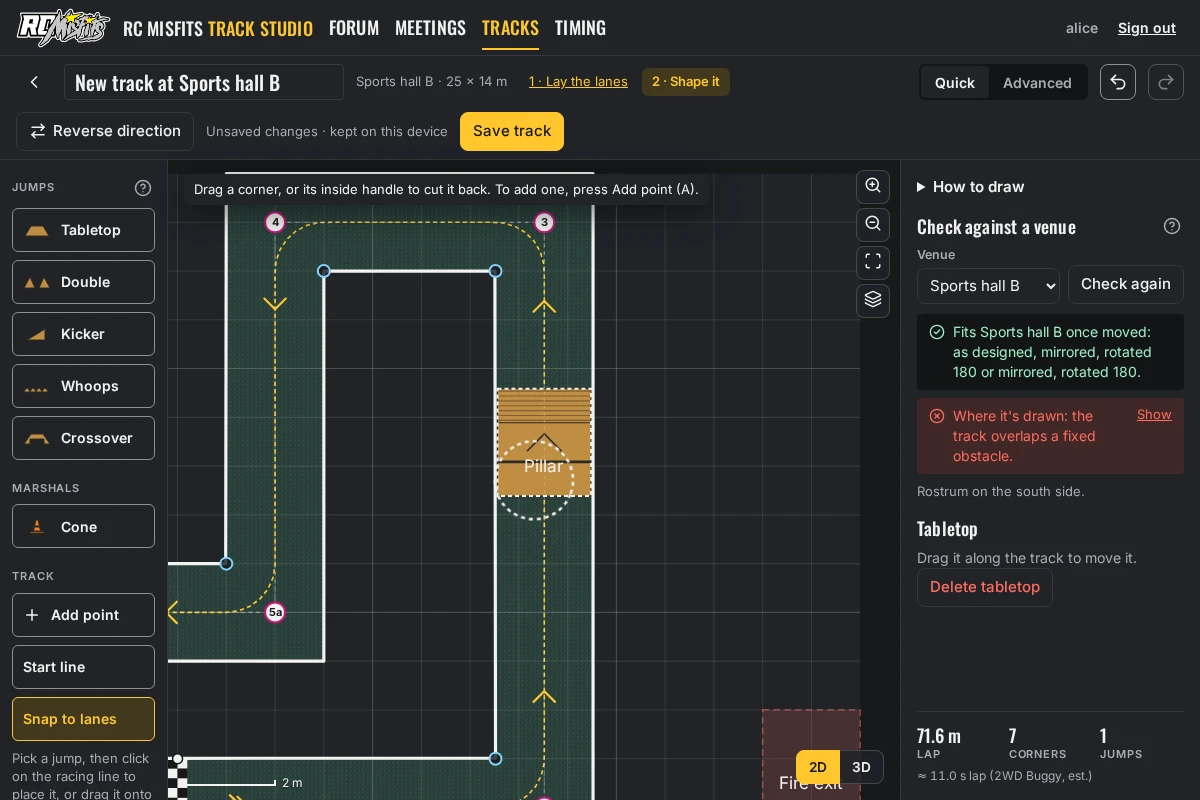
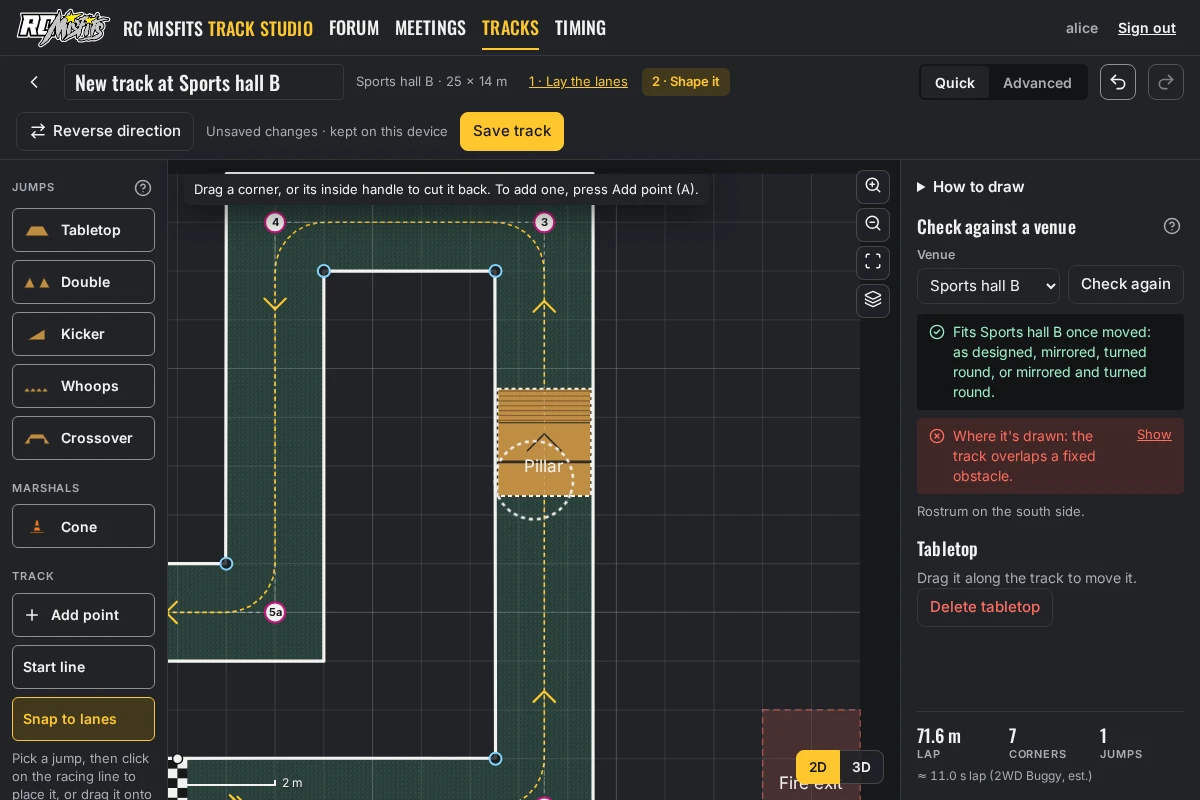
Fit lists name each orientation so they read cleanly (#179) (#192)
* Tests: orientations are shown by name and lists of them read cleanly (#179)

* Name each fit orientation and list them cleanly everywhere they're shown (#179)

* Typecheck: the adapted-layout test's derivedFrom has an author (#179)

* Guide: retake the venue check and Fit to a venue shots with the orientation names (#179); PR screenshots

* Adapt: the wrong-orientation error names the options the same way (#179)

* Remove the PR screenshots (#179)

* Guide: retake the venue check shot on the merged code, with #182's corner numbers and the orientation names (#179)

---------

Changed region(s): [[0.74, 0.4375, 0.9867, 0.7812]]

diff --git a/apps/web/test/ui.test.tsx b/apps/web/test/ui.test.tsx
@@ -167,6 +167,14 @@ describe("track card", () => {
     expect(text(h)).toContain("as designed 2 × 1 m spare");
     expect(h).toContain('src="/f/1.png"');
   });
+
+  it("names each orientation the same way as everywhere else, linking by its label (#179)", () => {
+    const fit = { revision: 4, results: [{ orientation: "mirrored, rotated 180", spare: [2, 1], thumbUrl: "/f/3.png" }] };
+    const h = html(<TrackCard track={summary({ fit } as unknown as Partial<TrackSummary>)} fitVenueId="hall" />);
+    expect(h).toContain('href="/t/winter-3?fit=hall&amp;o=mirrored%2C%20rotated%20180"');
+    expect(text(h)).toContain("mirrored and turned round 2 × 1 m spare");
+    expect(text(h)).not.toContain("rotated");
+  });
 });
 
 describe("library results", () => {
@@ -726,6 +734,12 @@ describe("track page", () => {
     expect(text(h)).toContain("Based on Club A by yeti (revision 2)");
   });
 
+  it("an adaptation names its orientation the same way as the fit lists (#179)", () => {
+    const d = { ...doc, info: { ...doc.info, derivedFrom: { id: "club-a", revision: 2, orientation: "mirrored, rotated 180" } } };
+    const h = page(can({ edit: true }), { status: "draft", derivedFrom: { id: "club-a", name: "Club A", author: null } }, d);
+    expect(text(h)).toContain("Adapted from Club A (revision 2, mirrored and turned round)");
+  });
+
   it("an organiser approves; with errors, Submit and Approve are disabled and the reason is shown beside them", () => {
     const h = page(can({ approve: true, submit: true }), { errors: 2 });
     expect(h).toMatch(/class="ts-btn ts-btn--primary"[^>]*disabled=""[^>]*>Approve revision 4</);
@@ -936,6 +950,16 @@ describe("fit results", async () => {
     expect(t).toContain("as designed 1 × 2 m spare");
     expect(t).toMatch(/Make a copy for|Log in to make a copy/);
   });
+
+  it("names the orientations (#179), keeping the label as the value sent to adapt", () => {
+    setup({ data: { results: [{ orientation: "rotated 180", rotation: 180, mirror: false, shift: [0, 0], spare: [1, 2], thumbUrl: "" }, { orientation: "mirrored, rotated 90", rotation: 90, mirror: true, shift: [0, 0], spare: [1, 2], thumbUrl: "" }] }, loading: false });
+    const h = panel();
+    expect(text(h)).toContain("turned round 1 × 2 m spare");
+    expect(text(h)).toContain("mirrored and turned a quarter left 1 × 2 m spare");
+    expect(h).toContain('value="mirrored, rotated 90"');
+    expect(text(h)).not.toContain("rotated");
+  });
+
   it("#190: the preview names the venue's surface, the forum's for a linked template", () => {
     setup({ data: { results: [{ orientation: "as designed", rotation: 0, mirror: false, shift: [0, 0], spare: [1, 2], thumbUrl: "" }] }, loading: false });
     const linked = { ...venue, surface: "carpet", info: { ...venue.info, venue: { id: 12, name: "Niagara centre", trackId: 31 } } };

diff --git a/apps/web/src/designer/VenueCheck.tsx b/apps/web/src/designer/VenueCheck.tsx
@@ -2,7 +2,7 @@
 // the design as it stands against a venue template, in the browser: where it is drawn (obstacles hit, area left) and
 // in which orientations it fits. Nothing of the venue goes into the design.
 import { HelpLink } from "../help/HelpLink.js";
-import { bakeBuilt, fits, venueCheck, type Check, type RcTrack, type RcVenue, type VenueCheck } from "@track-studio/engine";
+import { bakeBuilt, fits, orientationList, venueCheck, type Check, type RcTrack, type RcVenue, type VenueCheck } from "@track-studio/engine";
 import { CircleAlert, CircleCheck, CircleX } from "lucide-react";
 import { useEffect, useId, useState } from "react";
 import { api, type VenueSummary } from "../lib/api.js";
@@ -24,15 +24,14 @@ export function checkAgainstVenue(design: RcTrack["design"], venue: RcVenue): Ve
   return { venue: { id: venue.id, name: venue.info.name }, fits: fits(track, venue).map((f) => f.orientation), asDrawn };
 }
 
-/** One line on whether it fits: "Fits Sports hall B where it's drawn.", "Fits Club hall once moved: as designed or mirrored." … */
+/** One line on whether it fits: "Fits Sports hall B where it's drawn.", "Fits Club hall once moved: as designed, mirrored, or turned round." … */
 export function fitSummary(r: VenueCheckResult): string {
   if (!r.fits.length) return `Doesn't fit ${r.venue.name} in any orientation.`;
   // only errors (area, obstacles) mean moving it; a warning (the timing loop, #173) is listed below
   const misplaced = r.asDrawn.checks.some((c) => c.level === "error");
   if (r.fits.includes("as designed") && !misplaced) return `Fits ${r.venue.name} where it's drawn.`;
-  const list = r.fits.length > 2 ? `${r.fits.slice(0, -1).join(", ")} or ${r.fits[r.fits.length - 1]}` : r.fits.join(" or ");
   // fits() slides the track to the best place: when it doesn't fit where it's drawn, say it has to move
-  return `Fits ${r.venue.name}${misplaced ? " once moved" : ""}: ${list}.`;
+  return `Fits ${r.venue.name}${misplaced ? " once moved" : ""}: ${orientationList(r.fits)}.`;
 }
 
 export function VenueCheckPanel({ design, drawnFor, onShow }: { design: RcTrack["design"]; drawnFor?: { venueTemplate: string }; onShow: (x: number, z: number) => void }) {

diff --git a/packages/engine/test/orientation-names.test.ts b/packages/engine/test/orientation-names.test.ts
@@ -1,0 +1,49 @@
+// #179: orientations are shown by name, and a list of them reads cleanly (the commas in "mirrored, rotated 180" ran
+// into the commas between list items). The stored labels (ORIENTS, derivedFrom.orientation) don't change.
+import { describe, expect, it } from "vitest";
+import { ORIENTS, orientationList, orientationName } from "../src/index.js";
+
+describe("orientationName", () => {
+  it("names every orientation fits() reports", () => {
+    expect(ORIENTS.map(([label]) => orientationName(label))).toEqual([
+      "as designed",
+      "mirrored",
+      "turned round",
+      "mirrored and turned round",
+      "turned a quarter left",
+      "turned a quarter right",
+      "mirrored and turned a quarter left",
+      "mirrored and turned a quarter right",
+    ]);
+  });
+
+  it("no name has a comma in it, and every name is different", () => {
+    const names = ORIENTS.map(([label]) => orientationName(label));
+    for (const n of names) expect(n).not.toContain(",");
+    expect(new Set(names).size).toBe(names.length);
+  });
+
+  it("shows a label it doesn't know as it is", () => {
+    expect(orientationName("sideways")).toBe("sideways");
+  });
+});
+
+describe("orientationList", () => {
+  it("one orientation", () => {
+    expect(orientationList(["rotated 180"])).toBe("turned round");
+  });
+  it("two orientations", () => {
+    expect(orientationList(["as designed", "mirrored, rotated 180"])).toBe("as designed or mirrored and turned round");
+  });
+  it("three orientations", () => {
+    expect(orientationList(["as designed", "mirrored", "rotated 180"])).toBe("as designed, mirrored, or turned round");
+  });
+  it("four orientations", () => {
+    expect(orientationList(["as designed", "mirrored", "rotated 180", "mirrored, rotated 180"])).toBe(
+      "as designed, mirrored, turned round, or mirrored and turned round",
+    );
+  });
+  it("none", () => {
+    expect(orientationList([])).toBe("");
+  });
+});

diff --git a/apps/web/src/components/FitPanel.tsx b/apps/web/src/components/FitPanel.tsx
@@ -1,6 +1,6 @@
 // "Fit to a venue": pick a venue, see every orientation the track fits in, preview it in the hall, make a copy.
 import { HelpLink } from "../help/HelpLink.js";
-import { timingLoopCheck, type Built, type RcVenue } from "@track-studio/engine";
+import { orientationName, timingLoopCheck, type Built, type RcVenue } from "@track-studio/engine";
 import { useEffect, useMemo, useState } from "react";
 import { useNavigate } from "react-router-dom";
 import { post, type FitAnswer, type TrackResponse, type VenueSummary } from "../lib/api.js";
@@ -119,7 +119,7 @@ export function FitPanel({ trackId, built, initialVenue, initialOrientation }: {
             {results.map((r) => (
               <label key={r.orientation} className="ts-fit-chip">
                 <input type="radio" name="orientation" value={r.orientation} checked={r === chosen} onChange={() => setOrientation(r.orientation)} />
-                <span>{r.orientation}</span>
+                <span>{orientationName(r.orientation)}</span>
                 <small>{fmt.spare(r)}</small>
               </label>
             ))}
@@ -132,7 +132,7 @@ export function FitPanel({ trackId, built, initialVenue, initialOrientation }: {
               built={placed}
               rostrum={{ ...xz(rostrumPos(v.area, v.rostrum?.side, v.rostrum?.offset)), side: v.rostrum?.side ?? "south" }}
               layers={{ lanes: true, racingLine: true, dividers: true, features: true, start: true, checks: false, obstacles: true, grid: true, rostrum: true, marshals: true }}
-              label={`${chosen.orientation} in ${v.info.name}`}
+              label={`${orientationName(chosen.orientation)} in ${v.info.name}`}
               className="ts-plan-well fit-plan"
             />
           )}

diff --git a/apps/server/src/store.ts b/apps/server/src/store.ts
@@ -6,6 +6,8 @@ import {
   drawingArea,
   fits,
   ORIENTS,
+  orientationList,
+  orientationName,
   trackVenueRef,
   upgradeTrack,
   validateTrack,
@@ -783,12 +785,12 @@ export function adaptTrack(db: DB, user: User, id: string, venueId: string, orie
   const answer = fitTrack(db, row, venueId, rev);
   if (!answer.results.length) throw new HttpError(422, "does-not-fit", "This track doesn't fit that venue in any orientation");
   const fit = orientation ? answer.results.find((r) => r.orientation === orientation) : answer.results[0];
-  if (!fit) throw badRequest("bad-orientation", `It doesn't fit as "${orientation}"; options: ${answer.results.map((r) => r.orientation).join(", ")}`);
+  if (!fit) throw badRequest("bad-orientation", `It doesn't fit ${orientationName(orientation ?? "")}. It fits ${orientationList(answer.results.map((r) => r.orientation))}.`);
   const { thumbUrl: _t, ...plainFit } = fit;
   const adapted = adapt(getTrackDoc(db, row, rev), opts.venue ?? getVenueDoc(db, venueId), plainFit);
   if (opts.dropSurface) delete adapted.info.surface;
   const t = now();
   adapted.info = { ...adapted.info, author: user.username, created: t, modified: t, status: "draft" };
-  const saved = saveRevision(db, user, adapted, { status: "draft", note: `Adapted from ${row.d_name} r${rev} (${fit.orientation})` });
+  const saved = saveRevision(db, user, adapted, { status: "draft", note: `Adapted from ${row.d_name} r${rev} (${orientationName(fit.orientation)})` });
   return { ...trackResult(db, saved.id, user), fit: plainFit };
 }

diff --git a/apps/server/test/tracks.test.ts b/apps/server/test/tracks.test.ts
@@ -521,10 +521,15 @@ describe("fit + adapt", () => {
     // obstacles or its rostrum (1.7)
     expect(doc.design).toEqual(withoutCones(referenceJson<RcTrack>("examples/freeform-at-sports-hall-b.rctrack.json")).design);
     expect(doc.info.drawnFor).toEqual({ venueTemplate: "venue-2", name: "Sports hall B" });
+    // the revision note names the orientation as the fit lists do (#179); the stored label stays "rotated 180"
+    const revs = (await req(app, "GET", `/api/tracks/${track.id}/revisions`, alice)).json().revisions;
+    expect(revs.map((r: { note: string }) => r.note)).toEqual(["Adapted from Freeform example r1 (turned round)"]);
     expect(JSON.stringify(doc)).not.toMatch(/"obstacles"|"rostrum"|"basedOn"|Pillar/);
     expect((await req(app, "POST", `/api/tracks/${CLUB_A}/adapt/venue-3`, alice)).statusCode).toBe(422);
     const bad = await req(app, "POST", `/api/tracks/${CLUB_A}/adapt/venue-1`, alice, { orientation: "rotated 90" });
     expect(bad.statusCode).toBe(400);
+    // the options are named as the fit lists name them (#179)
+    expect(bad.json().message).toBe("It doesn't fit turned a quarter left. It fits as designed, mirrored, turned round, or mirrored and turned round.");
     const chosen = await req(app, "POST", `/api/tracks/${CLUB_A}/adapt/venue-1`, alice, { orientation: "mirrored" });
     expect(chosen.json().fit.orientation).toBe("mirrored");
   });

diff --git a/packages/engine/src/fit.ts b/packages/engine/src/fit.ts
@@ -16,6 +16,30 @@ export const ORIENTS: [string, number, boolean][] = [
   ["mirrored, rotated 270", 270, true],
 ];
 
+/** What people read for each ORIENTS label (#179). Display only: the labels stay the stored and API values. */
+const ORIENT_NAMES: Record<string, string> = {
+  "as designed": "as designed",
+  mirrored: "mirrored",
+  "rotated 180": "turned round",
+  "mirrored, rotated 180": "mirrored and turned round",
+  "rotated 90": "turned a quarter left",
+  "rotated 270": "turned a quarter right",
+  "mirrored, rotated 90": "mirrored and turned a quarter left",
+  "mirrored, rotated 270": "mirrored and turned a quarter right",
+};
+
+/** The name shown for a fit orientation label ("mirrored, rotated 180" -> "mirrored and turned round"); an unknown label as it is. */
+export function orientationName(label: string): string {
+  return ORIENT_NAMES[label] ?? label;
+}
+
+/** Orientation labels as one phrase: "a", "a or b", "a, b, or c". */
+export function orientationList(labels: string[]): string {
+  const names = labels.map(orientationName);
+  if (names.length <= 2) return names.join(" or ");
+  return `${names.slice(0, -1).join(", ")}, or ${names[names.length - 1]}`;
+}
+
 /** Mirror (x -> -x) then rotate CCW by `rot` degrees. */
 export function transformPt(x: number, z: number, rot: number, mirror: boolean): [number, number] {
   if (mirror) x = -x;

diff --git a/apps/web/src/pages/TrackPage.tsx b/apps/web/src/pages/TrackPage.tsx
@@ -1,4 +1,4 @@
-import { drawingArea, rctrackFileName, type Point2, type RcTrack, type RcVenue, type Side } from "@track-studio/engine";
+import { drawingArea, orientationName, rctrackFileName, type Point2, type RcTrack, type RcVenue, type Side } from "@track-studio/engine";
 import { ArrowLeft, Download, Lock } from "lucide-react";
 import { lazy, Suspense, useCallback, useMemo, useState } from "react";
 import { Link, useNavigate, useParams, useSearchParams } from "react-router-dom";
@@ -302,7 +302,7 @@ export function TrackPage() {
               {doc.info.derivedFrom.orientation ? "Adapted from " : "Based on "}
               <Link to={`/t/${doc.info.derivedFrom.id}`}>{track.derivedFrom?.name ?? "another layout"}</Link>
               {track.derivedFrom?.author && <> by {track.derivedFrom.author}</>} (revision {doc.info.derivedFrom.revision}
-              {doc.info.derivedFrom.orientation && <>, {doc.info.derivedFrom.orientation}</>})
+              {doc.info.derivedFrom.orientation && <>, {orientationName(doc.info.derivedFrom.orientation)}</>})
             </p>
           )}
           {track.locked && (

diff --git a/apps/web/test/guide.test.tsx b/apps/web/test/guide.test.tsx
@@ -153,7 +153,14 @@ describe("Check against a venue", () => {
     const r = checkAgainstVenue(ref<RcTrack>("examples/freeform-example.rctrack.json").design, sportsHall);
     expect(r.asDrawn.checks.map((c) => c.code)).toContain("obstacle");
     expect(r.fits).toEqual(["rotated 180"]);
-    expect(fitSummary(r)).toBe("Fits Sports hall B once moved: rotated 180.");
+    expect(fitSummary(r)).toBe("Fits Sports hall B once moved: turned round.");
+  });
+
+  it("lists several orientations by name, so the list reads cleanly (#179)", () => {
+    const r = { ...checkAgainstVenue(adapted().design, sportsHall), fits: ["as designed", "mirrored", "rotated 180", "mirrored, rotated 180"] };
+    r.asDrawn = { ...r.asDrawn, checks: [{ level: "error", code: "obstacle", message: "x" }] };
+    expect(fitSummary(r)).toBe("Fits Sports hall B once moved: as designed, mirrored, turned round, or mirrored and turned round.");
+    expect(fitSummary({ ...r, fits: ["mirrored", "rotated 90"] })).toBe("Fits Sports hall B once moved: mirrored or turned a quarter left.");
   });
 
   it("says when nothing fits", () => {

diff --git a/apps/web/src/components/TrackCard.tsx b/apps/web/src/components/TrackCard.tsx
@@ -1,3 +1,4 @@
+import { orientationName } from "@track-studio/engine";
 import { useState } from "react";
 import { Link } from "react-router-dom";
 import * as fmt from "../lib/format.js";
@@ -78,7 +79,7 @@ export function TrackCard({ track, fitVenueId, lapClass }: { track: TrackSummary
                   onMouseEnter={() => setShown(i)}
                   onFocus={() => setShown(i)}
                 >
-                  {r.orientation}
+                  {orientationName(r.orientation)}
                   <small>{fmt.spare(r)}</small>
                 </Link>
               </li>

diff --git a/docs/guide/README.md b/docs/guide/README.md
@@ -449,7 +449,7 @@ The answers, and what they mean:
 | Answer | What it means |
 |---|---|
 | **Fits … where it's drawn.** | Nothing to do. It fits the hall as it is. |
-| **Fits … once moved: as designed, mirrored, rotated 180 …** | It does fit the hall, but not where it is drawn now. The list says which ways round it fits. |
+| **Fits … once moved: as designed, mirrored, turned round, or mirrored and turned round.** | It does fit the hall, but not where it is drawn now. The list says which ways round it fits: **mirrored** is flipped left to right, **turned round** is turned through 180°, and **turned a quarter left** or **right** is turned through 90°. |
 | **Where it's drawn: the track overlaps a fixed obstacle.** | A lane runs over a pillar or another obstacle. Select **Show** to see where. |
 | **Where it's drawn: the track goes outside the venue's track area.** | Part of the layout is beyond the edge of the usable area. Select **Show** to see where. |
 | **Where it's drawn: start/finish isn't over the timing loop.** | A warning. The start line is not on the hall's timing loop. Move the start line onto the loop, running the arrow's way. Select **Show** to see the loop. |
@@ -474,7 +474,7 @@ Use this to take a finished layout to a different hall.
 3. Under **Fits as**, choose a way round. Each one says how much room is spare.
 4. The preview shows the layout placed in the hall, with the hall's obstacles, rostrum and timing loop. If that way round leaves the start line off the loop, a **Timing loop** warning under the preview says so: pick another way round, or move the start line in your copy.
 
-![Fit to a venue on a layout's page: Sports hall B chosen, "rotated 180" with 3.1 × 2.1 m spare, and a preview of the layout in the hall between the pillars](img/fit-to-venue.webp)
+![Fit to a venue on a layout's page: Sports hall B chosen, "turned round" with 3.1 × 2.1 m spare, and a preview of the layout in the hall between the pillars](img/fit-to-venue.webp)
 
 5. Select **Make a copy for …** to get your own copy, turned to fit that hall. The original is not changed, and your copy stays credited to it.
 
